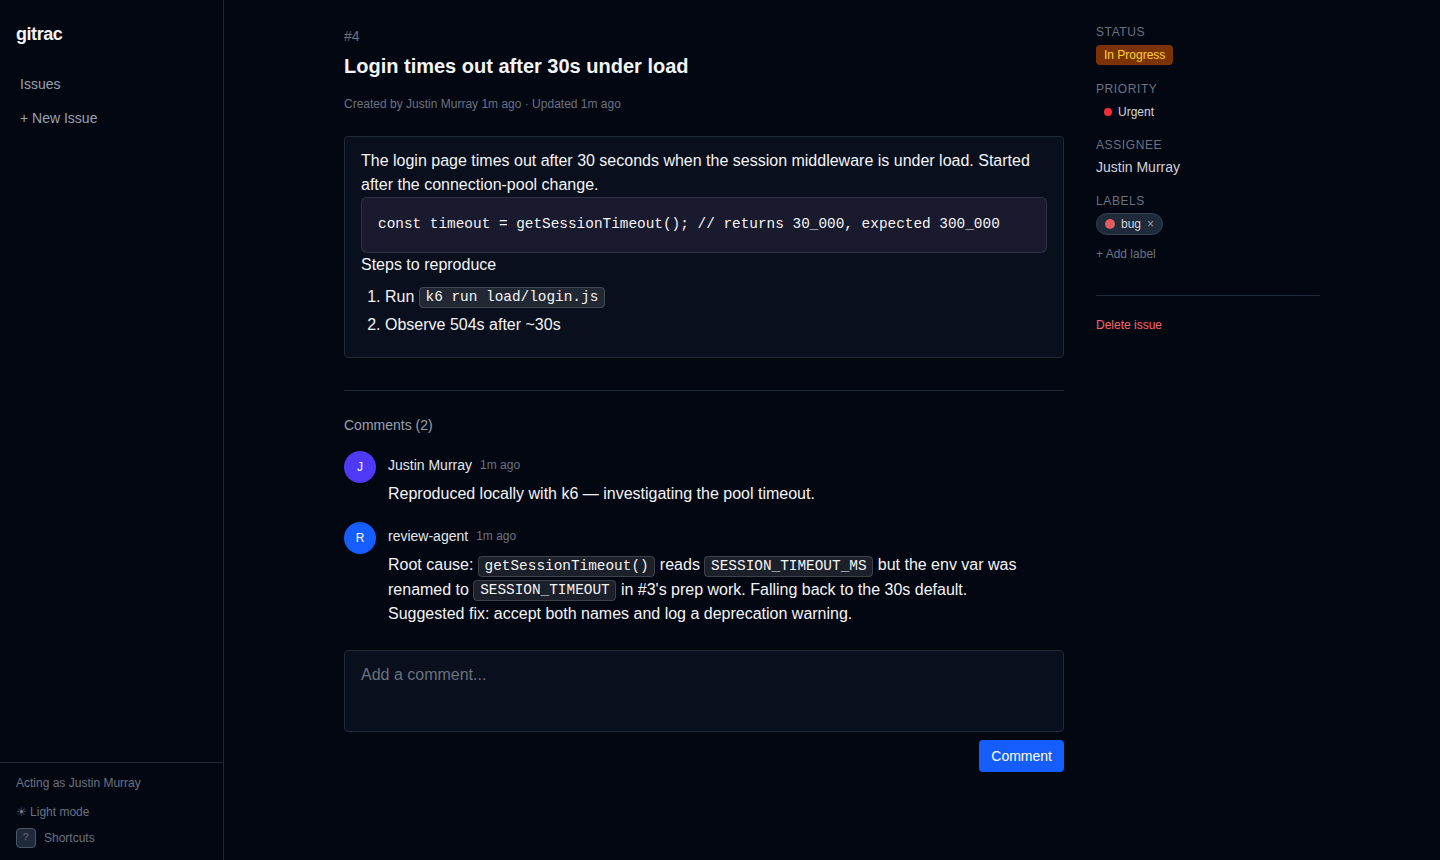
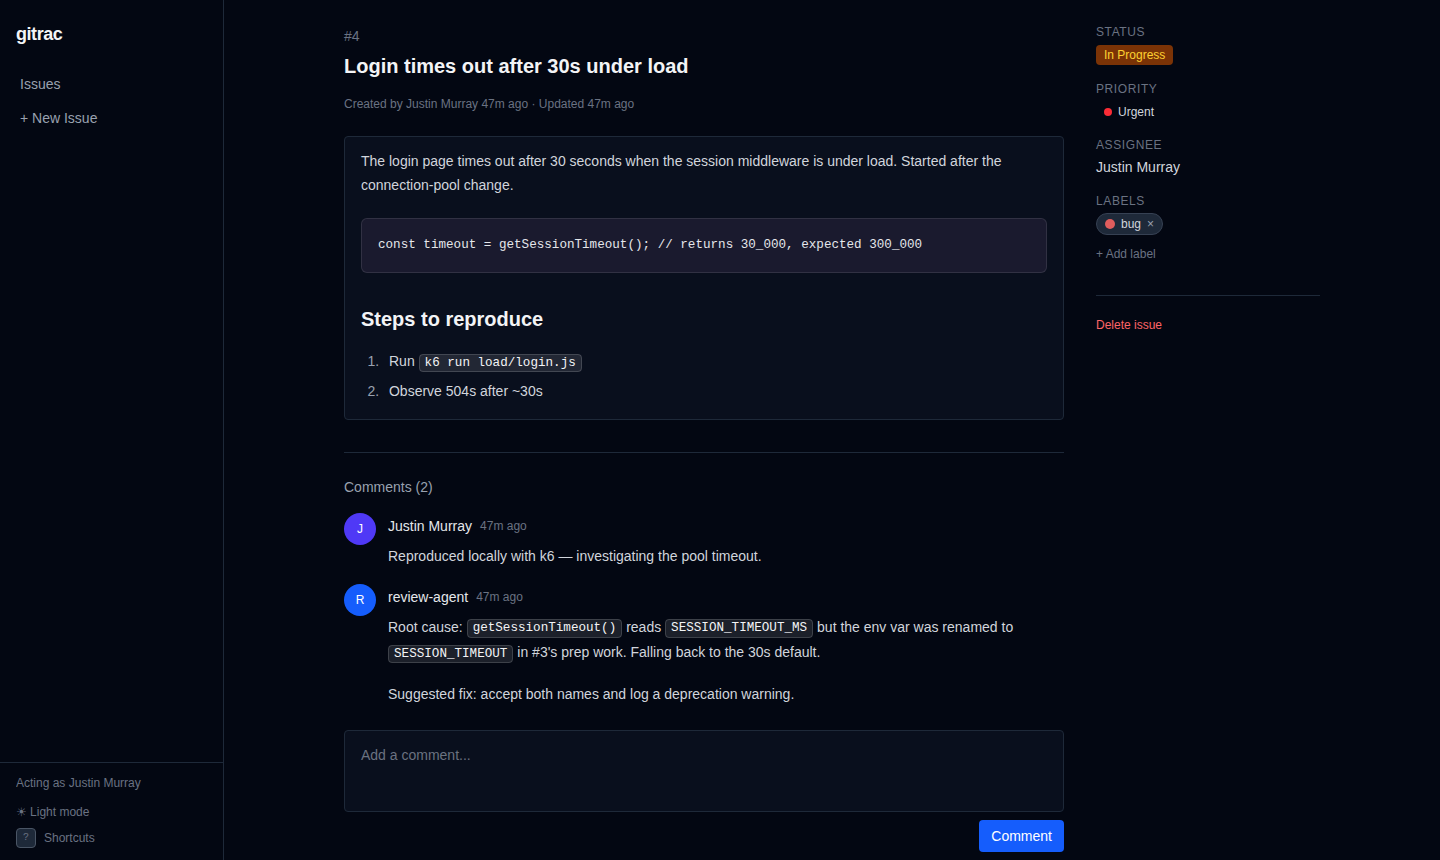
fix: style markdown with @tailwindcss/typography; refresh README screenshot (#73)

diff --git a/src/web/ui/styles/globals.css b/src/web/ui/styles/globals.css
@@ -1,4 +1,5 @@
 @import "tailwindcss";
+@plugin "@tailwindcss/typography";
 @custom-variant dark (&:where(.dark, .dark *));
 
 /* System font stack */
@@ -22,24 +23,56 @@ body {
   outline: none;
 }
 
-/* Tiptap prose styling for light mode */
+/*
+ * Rich-text (prose) styling. Every markdown surface (description editor,
+ * read-only MarkdownContent, comment view/editor) is a Tiptap root with
+ * `prose prose-sm dark:prose-invert`; @tailwindcss/typography supplies the
+ * element styles (headings, lists, tables, ...). The rules below are
+ * unlayered, so they win over the plugin's `@layer utilities` rules: they set
+ * one palette per theme and restyle code, blockquotes and rules to match the
+ * rest of the UI.
+ */
 .tiptap.prose {
-  --tw-prose-body: rgb(31 41 55);
-  --tw-prose-headings: rgb(17 24 39);
-  --tw-prose-links: rgb(37 99 235);
-  --tw-prose-bold: rgb(17 24 39);
-  --tw-prose-code: rgb(17 24 39);
+  --tw-prose-body: var(--color-gray-800);
+  --tw-prose-headings: var(--color-gray-900);
+  --tw-prose-lead: var(--color-gray-600);
+  --tw-prose-links: var(--color-blue-600);
+  --tw-prose-bold: var(--color-gray-900);
+  --tw-prose-counters: var(--color-gray-500);
+  --tw-prose-bullets: var(--color-gray-400);
+  --tw-prose-hr: rgba(0, 0, 0, 0.12);
+  --tw-prose-quotes: var(--color-gray-700);
+  --tw-prose-quote-borders: rgba(0, 0, 0, 0.15);
+  --tw-prose-captions: var(--color-gray-500);
+  --tw-prose-kbd: var(--color-gray-900);
+  --tw-prose-code: var(--color-gray-900);
+  --tw-prose-pre-code: var(--color-gray-800);
+  --tw-prose-pre-bg: #f5f5f5;
+  --tw-prose-th-borders: var(--color-gray-300);
+  --tw-prose-td-borders: var(--color-gray-200);
 }
 
 .dark .tiptap.prose {
-  --tw-prose-body: rgb(209 213 219);
-  --tw-prose-headings: rgb(243 244 246);
-  --tw-prose-links: rgb(96 165 250);
-  --tw-prose-bold: rgb(243 244 246);
-  --tw-prose-code: rgb(243 244 246);
+  --tw-prose-body: var(--color-gray-300);
+  --tw-prose-headings: var(--color-gray-100);
+  --tw-prose-lead: var(--color-gray-400);
+  --tw-prose-links: var(--color-blue-400);
+  --tw-prose-bold: var(--color-gray-100);
+  --tw-prose-counters: var(--color-gray-400);
+  --tw-prose-bullets: var(--color-gray-500);
+  --tw-prose-hr: rgba(255, 255, 255, 0.12);
+  --tw-prose-quotes: var(--color-gray-300);
+  --tw-prose-quote-borders: rgba(255, 255, 255, 0.2);
+  --tw-prose-captions: var(--color-gray-400);
+  --tw-prose-kbd: var(--color-gray-100);
+  --tw-prose-code: var(--color-gray-100);
+  --tw-prose-pre-code: var(--color-gray-200);
+  --tw-prose-pre-bg: #1a1a2e;
+  --tw-prose-th-borders: var(--color-gray-600);
+  --tw-prose-td-borders: var(--color-gray-700);
 }
 
-/* Tiptap inline code */
+/* Tiptap inline code: a chip, not the plugin's bold text in backticks */
 .tiptap code:not(pre code) {
   background: rgba(0, 0, 0, 0.06);
   border: 1px solid rgba(0, 0, 0, 0.1);
@@ -49,6 +82,12 @@ body {
     ui-monospace, SFMono-Regular, "SF Mono", Menlo, Consolas, "Liberation Mono",
     monospace;
   font-size: 0.9em;
+  font-weight: inherit;
+}
+
+.tiptap code::before,
+.tiptap code::after {
+  content: none;
 }
 
 .dark .tiptap code:not(pre code) {
@@ -58,7 +97,8 @@ body {
 
 /* Tiptap code blocks */
 .tiptap pre {
-  background: #f5f5f5;
+  background: var(--tw-prose-pre-bg);
+  color: var(--tw-prose-pre-code);
   border: 1px solid rgba(0, 0, 0, 0.1);
   padding: 1rem;
   border-radius: 0.375rem;
@@ -80,56 +120,48 @@ body {
 }
 
 .dark .tiptap pre {
-  background: #1a1a2e;
   border-color: rgba(255, 255, 255, 0.1);
 }
 
-/* Tiptap blockquotes */
+/* Tiptap blockquotes: no curly quotes around the text */
 .tiptap blockquote {
-  border-left: 3px solid rgba(0, 0, 0, 0.15);
+  border-inline-start: 3px solid var(--tw-prose-quote-borders);
   background: rgba(0, 0, 0, 0.02);
   padding: 0.5rem 1rem;
   margin: 0.75rem 0;
   font-style: italic;
+  font-weight: inherit;
   border-radius: 0 0.25rem 0.25rem 0;
 }
 
+.tiptap blockquote p::before,
+.tiptap blockquote p::after {
+  content: none;
+}
+
+.tiptap blockquote > :first-child {
+  margin-top: 0;
+}
+
+.tiptap blockquote > :last-child {
+  margin-bottom: 0;
+}
+
 .dark .tiptap blockquote {
-  border-left-color: rgba(255, 255, 255, 0.2);
   background: rgba(255, 255, 255, 0.03);
 }
 
 /* Tiptap horizontal rules */
 .tiptap hr {
   border: none;
-  border-top: 1px solid rgba(0, 0, 0, 0.12);
+  border-top: 1px solid var(--tw-prose-hr);
   margin: 1.5rem 0;
 }
 
-.dark .tiptap hr {
-  border-top-color: rgba(255, 255, 255, 0.12);
-}
-
-/* Tiptap lists */
-.tiptap ul {
-  list-style-type: disc;
-  padding-left: 1.5rem;
-  margin: 0.5rem 0;
-}
-
-.tiptap ol {
-  list-style-type: decimal;
-  padding-left: 1.5rem;
-  margin: 0.5rem 0;
-}
-
-.tiptap li {
-  margin: 0.25rem 0;
-}
-
-.tiptap li > ul,
-.tiptap li > ol {
-  margin: 0.125rem 0;
+/* Tiptap lists: Tiptap wraps each item's text in a <p>; keep items compact */
+.tiptap li > p {
+  margin-top: 0.25em;
+  margin-bottom: 0.25em;
 }
 
 /* Tiptap inline images */

diff --git a/src/web/ui/styles/globals.test.ts b/src/web/ui/styles/globals.test.ts
@@ -1,0 +1,85 @@
+import { describe, expect, test } from 'bun:test';
+import { dirname, join } from 'node:path';
+import { compile, optimize } from '@tailwindcss/node';
+
+const cssPath = join(import.meta.dir, 'globals.css');
+
+/** Compile globals.css as the Vite plugin does, for the given class candidates. */
+async function buildCss(candidates: string[]): Promise<string> {
+  const source = await Bun.file(cssPath).text();
+  const compiler = await compile(source, {
+    base: dirname(cssPath),
+    onDependency: () => {},
+  });
+  // Flatten nesting (as the production build does) so selectors are greppable.
+  return optimize(compiler.build(candidates)).code;
+}
+
+/** The declarations of the first rule whose selector contains `selector`. */
+function ruleBody(css: string, selector: string): string {
+  const start = css.indexOf(selector);
+  if (start === -1) return '';
+  const open = css.indexOf('{', start);
+  return css.slice(open + 1, css.indexOf('}', open));
+}
+
+// Every markdown surface (description editor, MarkdownContent, comment view +
+// editor) uses these classes on its Tiptap root.
+const PROSE_CLASSES = ['prose', 'prose-sm', 'max-w-none', 'dark:prose-invert'];
+
+describe('globals.css prose styling', () => {
+  test('prose classes generate element styles (typography plugin is loaded)', async () => {
+    const css = await buildCss(PROSE_CLASSES);
+    // Headings must be larger than body text (h2 was 16px, same as <p>).
+    for (const tag of ['h1', 'h2', 'h3']) {
+      expect(ruleBody(css, `.prose-sm :where(${tag})`)).toMatch(
+        /font-size:\s*1\.\d+em|font-size:\s*2\.\d+em/,
+      );
+    }
+    for (const el of ['ul', 'ol', 'blockquote', 'pre', 'table', 'hr']) {
+      expect(css).toContain(`.prose-sm :where(${el})`);
+    }
+    // dark:prose-invert must resolve to the invert palette under .dark.
+    expect(css).toContain('--tw-prose-body: var(--tw-prose-invert-body)');
+  });
+
+  test('custom overrides set a full palette for both themes', async () => {
+    const css = await buildCss(PROSE_CLASSES);
+    const light = ruleBody(css, '.tiptap.prose {');
+    const dark = ruleBody(css, '.dark .tiptap.prose {');
+    for (const name of [
+      'body',
+      'headings',
+      'links',
+      'bullets',
+      'counters',
+      'hr',
+      'quotes',
+      'quote-borders',
+      'code',
+      'pre-code',
+      'pre-bg',
+      'th-borders',
+      'td-borders',
+    ]) {
+      expect(light).toContain(`--tw-prose-${name}:`);
+      expect(dark).toContain(`--tw-prose-${name}:`);
+    }
+  });
+
+  test('inline code and blockquotes drop the plugin’s generated quote marks', async () => {
+    const css = await buildCss(PROSE_CLASSES);
+    // (the optimizer writes `::before` as `:before`)
+    expect(ruleBody(css, '.tiptap code:before')).toContain('content: none');
+    expect(ruleBody(css, '.tiptap blockquote p:before')).toContain(
+      'content: none',
+    );
+  });
+
+  test('image sizing / lightbox cursor styles are kept', async () => {
+    const css = await buildCss(PROSE_CLASSES);
+    const img = ruleBody(css, '.tiptap img {');
+    expect(img).toContain('max-height: 400px');
+    expect(img).toContain('cursor: pointer');
+  });
+});

diff --git a/.issues/closed/73-markdown-headings-and-other-prose-elements-render-unstyled-in-the-web-ui.md b/.issues/closed/73-markdown-headings-and-other-prose-elements-render-unstyled-in-the-web-ui.md
@@ -1,0 +1,68 @@
+---
+id: 73
+title: Markdown headings and other prose elements render unstyled in the web UI
+status: done
+priority: medium
+assignee: justin@tigerdata.com
+labels:
+  - bug
+created: '2026-10-15T16:06:57.530Z'
+createdBy: Justin Murray
+updated: '2026-10-15T16:51:30.952Z'
+---
+
+Found while taking README screenshots. The editor/markdown views use Tailwind `prose` classes, but headings render like body text (`h2` computes to 16px, the same as `p`). `## Steps to reproduce` in a description looks like a plain paragraph. Likely cause: the `@tailwindcss/typography` plugin isn't installed or enabled for Tailwind v4, so `prose` has only partial custom rules.
+
+## Acceptance criteria
+
+- Headings (h1–h4), lists, blockquotes, code blocks, tables and horizontal rules are styled consistently in the editor, read-only markdown and comments, in both dark and light mode.
+- Use `@tailwindcss/typography` (Tailwind v4 `@plugin`) or equivalent CSS. Keep the existing image sizing/lightbox styles working.
+- UI build passes. The orchestrator will verify visually and refresh `docs/images/issue-detail.png`.
+
+---
+
+### Justin Murray — 2026-10-15T16:51:30.952Z
+
+Markdown headings, lists, blockquotes, code blocks and rules are now styled in the web UI, in both dark and light mode. `./bun run check` passes, and so does `./bun run vite build --config vite.config.ts`.
+
+**What was wrong**
+All four markdown surfaces put `prose prose-sm dark:prose-invert` on their Tiptap root: the description editor (`IssueEditor`), the read-only `MarkdownContent`, and the comment view and editor (`CommentList`, `CommentEditor`). But `@tailwindcss/typography` wasn't installed or enabled, so those classes produced no CSS. Tailwind's base reset made every heading the same size as body text (`h2` was 16px). The only styling came from a few hand-written `.tiptap` rules for code, quotes, rules and lists.
+
+**What changed**
+- **Plugin:** added `@tailwindcss/typography` (`^0.5.20`) as a dev dependency and enabled it with `@plugin "@tailwindcss/typography";` in `globals.css`. With `prose-sm`, `h1`/`h2`/`h3` are now about 30/20/18px, `h4` is bold at body size, and lists, tables and links get proper spacing and colors.
+- **Colors:** replaced the partial color overrides with a full set of `--tw-prose-*` variables for each theme. This keeps the UI's existing grays and blues and covers bullets, counters, quotes, rules, code blocks and table borders.
+- **Inline code:** keeps its "chip" look. I turned off the plugin's backtick pseudo-content and bold weight.
+- **Blockquotes:** turned off the plugin's curly quote marks and kept the existing border and tinted background.
+- **Code blocks:** they keep their custom background, and the text color now comes from the matching theme variable. Without this, light mode would have shown light-gray text on a light background.
+- **Lists:** I dropped the old hand-written list rules in favour of the plugin's, and kept items compact (Tiptap wraps each item's text in a `<p>`).
+- **Images:** the existing sizing and lightbox styles are unchanged and still win.
+
+These custom rules are not inside a CSS layer, so they always beat the plugin's rules without needing more specific selectors.
+
+**Tests**
+New `src/web/ui/styles/globals.test.ts` compiles `globals.css` the same way the Vite build does and checks that:
+- headings get larger font sizes, and lists, quotes, code blocks, tables and rules get rules;
+- `dark:prose-invert` switches to the dark palette;
+- both themes define the full color set;
+- the backticks and quote marks are suppressed;
+- the image sizing and click-cursor styles are still there.
+
+Three of the four tests fail against the old stylesheet. The image test passes either way, since it only guards against regressions.
+
+I also checked by eye in a scratch repo, in both themes: `h2` is 20px bold, and the inline code, quote, code block, rule and nested lists look right.
+
+**Files affected**
+- `src/web/ui/styles/globals.css`
+- `src/web/ui/styles/globals.test.ts` (new)
+- `package.json` and `bun.lock`: two dev dependencies added, nothing else
+
+**Decisions**
+- I added `@tailwindcss/node` (`^4.2.2`) as an explicit dev dependency for the test. It was already installed as a pinned dependency of `@tailwindcss/vite`, so this adds no new code, but the test no longer relies on a package nobody declared.
+- No changes to user docs; the only visible change is the styling.
+
+**Follow-ups noticed**
+- **Tables:** they will be styled if they ever render, but they don't today. Tiptap's StarterKit has no table support, so markdown tables in descriptions and comments don't show up as tables at all. Fixing that means adding Tiptap's table extension and checking that markdown round-trips cleanly, which is a separate issue.
+- **Build warning:** the Vite build warns that a JavaScript chunk is over 500 kB. This change only touches CSS, so it isn't the cause.
+- **Screenshot:** `docs/images/issue-detail.png` still needs refreshing, as planned.
+
+**Orchestrator browser verification:** on the demo repo, `h2` in the description now computes to 20px (was 16px) with proper paragraph/list/code spacing; refreshed `docs/images/issue-detail.png` for the README.
